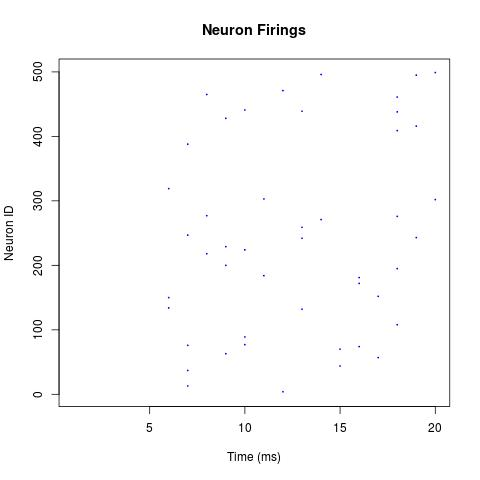
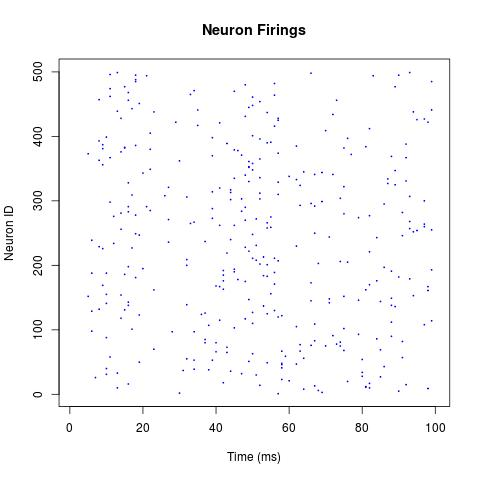
output updated for 100ms simulation

diff --git a/src/main/java/edu/stthomas/neuronhadoop/Model.java b/src/main/java/edu/stthomas/neuronhadoop/Model.java
@@ -19,7 +19,7 @@ public class Model extends Configured implements Tool {
 	private String IN;
 	private String OUT;
 	public final static int NUM_OF_NEURONS = 500;
-	public final static int TIME_IN_MS = 200;
+	public final static int TIME_IN_MS = 100;
 
 	public int run(String[] args) throws Exception {
 
